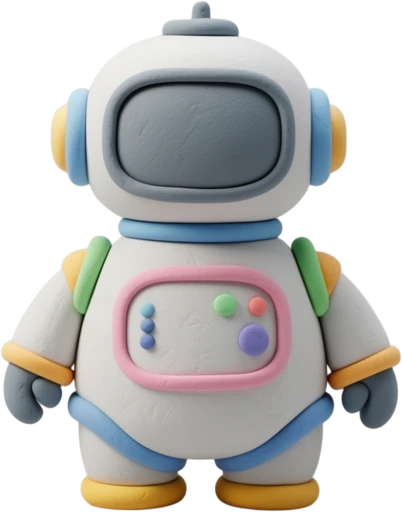
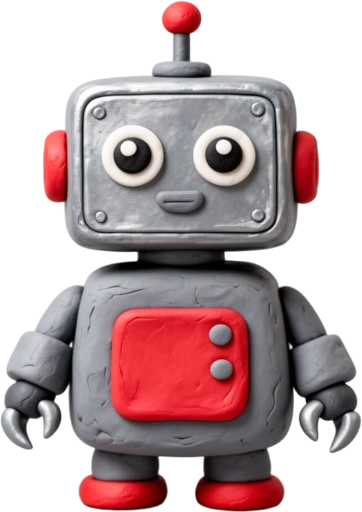
Bystrzakowo: Emocje z trzema nowymi postaciami (dziewczynka, kotek, miś), znak morza zamiast stawu w segregowaniu, nowy robot

diff --git a/games/bystrzakowo/src/sim/sorting.ts b/games/bystrzakowo/src/sim/sorting.ts
@@ -53,7 +53,7 @@ const GROUPS: Record<SortRule, GroupDef[]> = {
   domy: [
     { key: 'wies', sign: 'stodola', ids: ids(['kot', 'pies', 'krowa', 'kura', 'kaczka', 'swinka', 'owca', 'kon', 'kurczak', 'cielaczek', 'prosiaczek', 'jagniatko', 'zrebak', 'koza', 'osiolek', 'indyk', 'ges']) },
     { key: 'las', sign: 'drzewo', ids: ids(['jez', 'wiewiorka', 'sowa', 'niedzwiedz', 'lis', 'zajac', 'dzik', 'sarna', 'dzieciol']) },
-    { key: 'woda', sign: 'staw', ids: ids(['ryba', 'krab', 'osmiornica', 'wieloryb', 'delfin', 'meduza', 'konikmorski']) },
+    { key: 'woda', sign: 'morze', ids: ids(['ryba', 'krab', 'osmiornica', 'wieloryb', 'delfin', 'meduza', 'konikmorski']) },
     { key: 'afryka', sign: 'palma', ids: ids(['lew', 'zyrafa', 'zebra', 'slon', 'malpa', 'hipopotam', 'nosorozec']) },
     { key: 'lod', sign: 'kra', ids: ids(['pingwin', 'foka', 'mors', 'mispolarny']) },
   ],
@@ -67,7 +67,7 @@ const GROUPS: Record<SortRule, GroupDef[]> = {
   ],
   ruch: [
     { key: 'lata', sign: 'chmurka', ids: ids(['ptak', 'sowa', 'motyl', 'pszczola', 'dzieciol', 'samolot', 'helikopter', 'rakieta', 'latawiec', 'biedronka']) },
-    { key: 'plywa', sign: 'staw', ids: ids(['ryba', 'delfin', 'wieloryb', 'meduza', 'lodka', 'osmiornica', 'konikmorski']) },
+    { key: 'plywa', sign: 'morze', ids: ids(['ryba', 'delfin', 'wieloryb', 'meduza', 'lodka', 'osmiornica', 'konikmorski']) },
     { key: 'jezdzi', sign: 'droga', ids: ids(['auto', 'autobus', 'rower', 'traktor', 'pociag', 'hulajnoga', 'skuter', 'straz', 'ciezarowka']) },
   ],
 };
@@ -179,4 +179,5 @@ export function binLine(rule: SortRule, key: string): string {
 export const SORT_LINES: readonly string[] = [...SORT_RULES.map((r) => `sort-${r}`), ...SORT_RULES.flatMap((r) => GROUPS[r].map((g) => binLine(r, g.key)))];
 
 /** Obrazki znaków skrzynek spoza katalogu (grafiki Warsztatu). */
-export const SIGN_ART = ['stodola', 'staw', 'palma', 'kra', 'balwan', 'droga'];
+// „morze” zamiast „staw”: wieloryb, delfin i meduza w stawie myliły (test agentem-dzieckiem).
+export const SIGN_ART = ['stodola', 'morze', 'palma', 'kra', 'balwan', 'droga'];

diff --git a/games/bystrzakowo/src/assets.ts b/games/bystrzakowo/src/assets.ts
@@ -22,7 +22,7 @@ export interface Art {
   /** Tło krainy i tło zabaw w tej krainie. */
   realmBg: Record<RealmId, Texture>;
   playBg: Record<RealmId, Texture>;
-  /** Warsztat: skrzynka, białe wiaderko (barwione na kolor) i znaki domów zwierząt (stodoła, staw). */
+  /** Warsztat: skrzynka, białe wiaderko (barwione na kolor) i znaki domów zwierząt (stodoła, morze). */
   crate: Texture | null;
   bucket: Texture | null;
   /** Zębatka strefy rodzica. */
